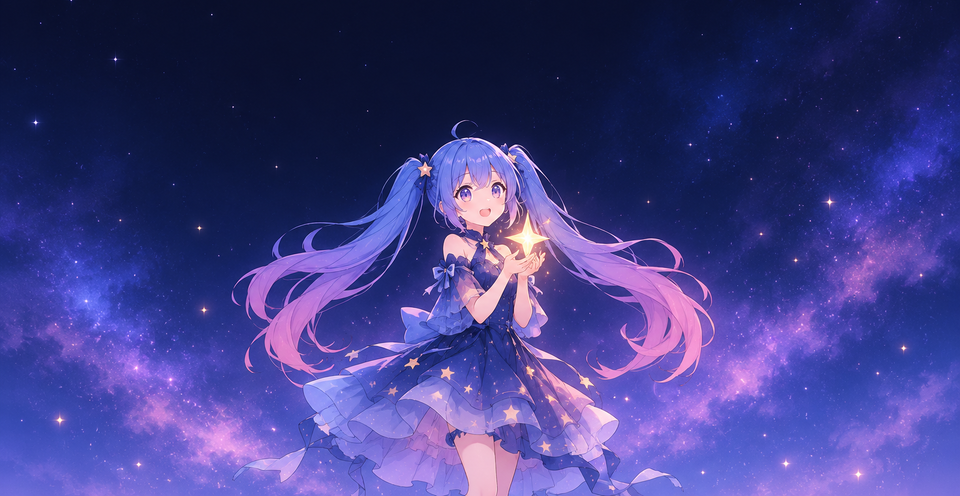
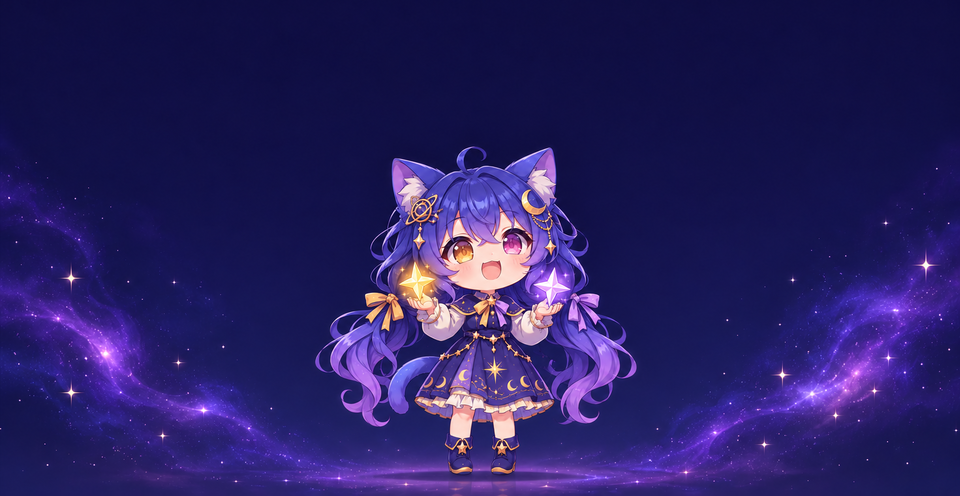
Characters drawn anew, all chibi; theme drake; 0.7.2
clay, mint, twin, void, lyre and prism get new chibi pictures, each from the
traits the community gives that model's character (lyre and prism no longer
look like the whale girl). drake is ChatGPT's dragon girl. 17 built-in
themes, 14 pictures; the eight with a character show it behind the text.
0.7.1 was tagged but never released.

diff --git a/site/index.html b/site/index.html
@@ -89,7 +89,7 @@
         <div class="data">
           <figure class="photo">
             <img src="img/hero.png" width="960" height="430" alt="UnifyTerm on Windows, in PowerShell: cat Cargo.toml | grep -n version prints three numbered lines; echo '[1,2,3]' | jq add prints 6; ut view unifyterm.png shows the logo as a picture, in the terminal." data-i18n-attr="alt:hero.alt" />
-            <svg class="stamp stamp--seal" viewBox="0 0 220 220" role="img" aria-label="Stamp: UnifyTerm 0.7.1, valid on three systems" data-i18n-attr="aria-label:stamp.seal" style="--turn: -11deg">
+            <svg class="stamp stamp--seal" viewBox="0 0 220 220" role="img" aria-label="Stamp: UnifyTerm 0.7.2, valid on three systems" data-i18n-attr="aria-label:stamp.seal" style="--turn: -11deg">
               <defs>
                 <path id="seal-top" d="M 28 110 A 82 82 0 0 1 192 110" />
                 <path id="seal-bottom" d="M 22 110 A 88 88 0 0 0 198 110" />
@@ -100,7 +100,7 @@
                 <circle cx="110" cy="110" r="62" class="thin" />
                 <text class="arc"><textPath href="#seal-top" startOffset="50%">UNIFYTERM</textPath></text>
                 <text class="arc arc--small"><textPath href="#seal-bottom" startOffset="50%">VALID ON THREE SYSTEMS</textPath></text>
-                <text class="mid" x="110" y="106">0.7.1</text>
+                <text class="mid" x="110" y="106">0.7.2</text>
                 <text class="mid mid--small" x="110" y="130">MIT</text>
               </g>
             </svg>
@@ -378,7 +378,7 @@ ut setting set font.size 16</code></pre>
       <section class="page page--cyan" id="observations" aria-labelledby="h-observations">
         <div class="guilloche" aria-hidden="true"></div>
         <h2 id="h-observations" data-i18n="obs.h">Current limitations</h2>
-        <p class="obs__lede" data-i18n="obs.lede">UnifyTerm is currently at version 0.7.1, and some areas are still incomplete:</p>
+        <p class="obs__lede" data-i18n="obs.lede">UnifyTerm is currently at version 0.7.2, and some areas are still incomplete:</p>
         <ul class="obs">
           <li data-i18n="obs.1">The Windows and macOS builds are not code-signed yet. A SmartScreen or Gatekeeper security prompt may appear on first launch.</li>
           <li data-i18n="obs.2">The macOS build passes CI builds and tests, but has seen little hands-on use so far.</li>

diff --git a/site/site.js b/site/site.js
@@ -37,7 +37,7 @@
     "nav.install": "安装",
     "theme.label": "切换浅色和深色",
     "hero.alt": "Windows 上的 UnifyTerm，PowerShell 里：cat Cargo.toml | grep -n version 输出带行号的三行；echo '[1,2,3]' | jq add 输出 6；ut view unifyterm.png 把 logo 作为图片显示在终端里。",
-    "stamp.seal": "印章：UnifyTerm 0.7.1，三个系统通用",
+    "stamp.seal": "印章：UnifyTerm 0.7.2，三个系统通用",
     "hero.h1": "一个终端，运行在 Windows、macOS 和 Linux 上。",
     "hero.sub": "在不同操作系统上，使用相同的命令和操作习惯。",
     "hero.lede": "UnifyTerm 是一个跨平台终端应用。它保留系统原生 Shell，同时提供一套统一的 Unix 命令工具，包括 <code>cat</code>、<code>grep</code>、<code>sed</code>、<code>jq</code> 等。",
@@ -124,7 +124,7 @@
     "film.p": "这里展示 UnifyTerm 在真实环境中的运行过程，包括命令执行、历史搜索、内容查看和 Agent 集成。",
     "film.link": "观看演示视频",
     "obs.h": "当前限制",
-    "obs.lede": "UnifyTerm 目前处于 0.7.1 版本，仍有一些尚未完善的地方：",
+    "obs.lede": "UnifyTerm 目前处于 0.7.2 版本，仍有一些尚未完善的地方：",
     "obs.1": "Windows 和 macOS 版本尚未进行代码签名，首次运行可能出现 SmartScreen 或 Gatekeeper 安全提示。",
     "obs.2": "macOS 版本已通过 CI 构建和测试，但人工使用还很少。",
     "obs.3": "视频播放依赖 FFmpeg，目前不支持音频。",

diff --git a/crates/config/src/themes.rs b/crates/config/src/themes.rs
@@ -31,7 +31,7 @@ macro_rules! built_in {
 }
 
 /// The themes UnifyTerm brings, in the order they are listed: each one's name and its file.
-pub const BUILT_IN: [(&str, &str); 16] = [
+pub const BUILT_IN: [(&str, &str); 17] = [
     built_in!("tokyo-night"),
     built_in!("aurora"),
     built_in!("eclipse"),
@@ -48,6 +48,7 @@ pub const BUILT_IN: [(&str, &str); 16] = [
     built_in!("void"),
     built_in!("lyre"),
     built_in!("prism"),
+    built_in!("drake"),
 ];
 
 /// Where a theme is.
@@ -211,7 +212,7 @@ pub fn passed_over(text: &str) -> Vec<String> {
 
 /// The files of UnifyTerm's own pictures: one for each built-in theme that
 /// has one, by the theme's name. The window has the pictures themselves.
-pub const PICTURES: [&str; 13] = [
+pub const PICTURES: [&str; 14] = [
     "aurora.png",
     "eclipse.png",
     "phosphor.png",
@@ -225,6 +226,7 @@ pub const PICTURES: [&str; 13] = [
     "void.png",
     "lyre.png",
     "prism.png",
+    "drake.png",
 ];
 
 /// Where a picture is.
@@ -580,7 +582,7 @@ mod tests {
             assert_eq!(find(name, None).expect("built in").picture, None, "{name}");
         }
         // A theme with a character shows it behind the text too; the preview page's six do not.
-        for name in ["whale", "clay", "mint", "twin", "void", "lyre", "prism"] {
+        for name in ["whale", "clay", "mint", "twin", "void", "lyre", "prism", "drake"] {
             let theme = find(name, None).expect("built in");
             assert_eq!(theme.wallpaper.as_deref(), Some(format!("{name}.png").as_str()), "{name}");
             assert_eq!(theme.wallpaper_opacity, Some(0.3), "{name}");
@@ -622,6 +624,7 @@ mod tests {
             ("void", true),
             ("lyre", true),
             ("prism", true),
+            ("drake", true),
             ("mine", false),
         ];
         assert_eq!(names, wanted.map(|(name, built_in)| (name.to_owned(), built_in)));
@@ -635,7 +638,7 @@ mod tests {
         let said = |name: &str| format!("{:#}", find(name, Some(folder.path())).expect_err("refused"));
         assert_eq!(
             said("nosuch"),
-            "no theme is called nosuch: there is tokyo-night, aurora, eclipse, phosphor, riso, night, day, paper-dark, paper, whale, clay, mint, twin, void, lyre, prism"
+            "no theme is called nosuch: there is tokyo-night, aurora, eclipse, phosphor, riso, night, day, paper-dark, paper, whale, clay, mint, twin, void, lyre, prism, drake"
         );
         assert!(said("../day").contains("is not a theme's name"), "a name never leaves the folder");
         std::fs::write(file_of("broken", folder.path()), "[theme]\nforeground = 1").expect("write");

diff --git a/crates/unifyterm/src/art.rs b/crates/unifyterm/src/art.rs
@@ -1,9 +1,9 @@
 //! The picture at the foot of the sidebar: the one the look in use names.
 //!
-//! A theme (or the settings) names a picture's file. UnifyTerm brings 13
+//! A theme (or the settings) names a picture's file. UnifyTerm brings 14
 //! pictures of its own: one for each of its themes with a preview page
 //! (`demo/appearance.html`), and one for each theme with a character
-//! (`whale`, `clay`, `mint`, `twin`, `void`, `lyre`, `prism`); they are in
+//! (`whale`, `clay`, `mint`, `twin`, `void`, `lyre`, `prism`, `drake`); they are in
 //! the program, and a theme names one the same way it names a file of the
 //! user's own.
 //!
@@ -34,7 +34,7 @@ macro_rules! own {
 }
 
 /// UnifyTerm's own pictures by their files' names: the ones `unifyterm-config` lists.
-const OWN: [(&str, &[u8]); 13] = [
+const OWN: [(&str, &[u8]); 14] = [
     own!("aurora.png"),
     own!("eclipse.png"),
     own!("phosphor.png"),
@@ -48,6 +48,7 @@ const OWN: [(&str, &[u8]); 13] = [
     own!("void.png"),
     own!("lyre.png"),
     own!("prism.png"),
+    own!("drake.png"),
 ];
 
 /// A picture's file is not read past this: a picture for a strip 268 pixels wide is far below it.

diff --git a/docs/verification-log.md b/docs/verification-log.md
@@ -1,17 +1,20 @@
 # 验收记录
 
-## 2026-11-26 · 0.7.1：七套带角色的主题（whale 哦鲸鲸 等）
+## 2026-11-26 · 0.7.2：八套带角色的主题（whale 哦鲸鲸 等）
 
-用户："可不可以增加一套鲸鱼娘的主题"；名字"主题名可以用 whale"，"显示用中文名"，"就叫哦鲸鲸吧"；"终端背景和侧边栏背景的这个例子，在 readme 里也展示一下"；"把 claude、gpt、gemini、grok、muse、glm 的二次元娘形象也分别做一套主题配置"；看过预览页后"这些主题都可以，默认带显示背景图吧"。
+用户："可不可以增加一套鲸鱼娘的主题"；名字"主题名可以用 whale"，"显示用中文名"，"就叫哦鲸鲸吧"；"终端背景和侧边栏背景的这个例子，在 readme 里也展示一下"；"把 claude、gpt、gemini、grok、muse、glm 的二次元娘形象也分别做一套主题配置"；"默认带显示背景图吧"；"muse 和 glm 的主题图根本不是网上的二次元娘形象，都同化成鲸鱼了"，"还有 chatgpt 龙娘的也没有"；"现在的那个薄荷也挺好看，可以留着"；"能不能都用 q 版的"；"可以让他直接从网上找"。
+
+0.7.1 没有发布：标签 `v0.7.1` 打在带旧图的提交上，发版跑到一半时用户指出图不对，发版取消，没有 Release；用户定"直接跳过这个 tag，0.7.2 就行了"。
 
 做了什么：
 
-- 7 个主题文件，各带一个原创角色的图：`whale`（哦鲸鲸，深海蓝）、`clay`（陶陶，浅色，陶土橙）、`mint`（薄荷，黑底青绿）、`twin`（双子，蓝紫粉）、`void`（虚空，黑白）、`lyre`（缪缪，深蓝和金）、`prism`（谱谱，靛蓝到青）。配色借原型的品牌色，名字和图都不用品牌名和标志。
-- 图：whale、clay、mint、twin、void 由 ChatGPT 网页版画（额度用完后停）；lyre、prism 由群聊里的 blog 画。原图 1536×1024，裁成 960×496（缩到宽 960 后靠下裁），人物居中靠下：侧栏图片区按铺满居中裁剪，上半部分被侧栏颜色盖住。不用别人画的同人图。
-- 这 7 套默认显示背景图：`wallpaper = "<名字>.png"`、`wallpaper_opacity = 0.3`；设置里 `wallpaper = ""` 关掉。不设 `shine`：内置主题不替用户打开光效（已有测试守着这条）。
-- 对比度（WCAG）：正文 13.2–16.8，次要文字 5.5–8.8；12 个彩色里最低的，深色 5.4–7.5，浅色 clay 3.3（亮色组）。
-- 代码只加列表项：`BUILT_IN` 9 → 16，`PICTURES` 6 → 13，窗口自带的图 6 → 13；测试里的主题名单加 7 个；新测试：7 套带角色的主题有背景图且透明度 0.3，预览页的 6 套没有。
-- README：主题 16 套；例子和截图 `docs/media/theme-whale.png`（真实窗口，演示盘 `U:\`，不含本机路径）。
+- 8 个主题文件，各带一个角色的图：`whale`（哦鲸鲸，DeepSeek 鲸鱼娘，深海蓝）、`clay`（陶陶，Claude 橙发大小姐，浅色）、`mint`（薄荷，黑发挑染青绿）、`twin`（双子，Gemini 蓝紫猫耳）、`void`（虚空，Grok 金色双马尾，黑白）、`lyre`（缪缪，Muse，抱竖琴）、`prism`（谱谱，GLM 黑长发狐耳）、`drake`（龙龙，ChatGPT 白卷发龙娘，翡翠绿）。配色借原型的品牌色；名字和图都不用品牌名和标志。
+- 图：whale 由 ChatGPT 网页版画；其余 7 张由群聊里的 blog 画，全部 Q 版。形象按网上公认的特征（萌娘百科、媒体报道）用文字描述，只取特征，画新图，不用、不描别人的图。原图 1536×1024，裁成 960×496（缩到宽 960 后靠下裁）。
+- 第一版的问题和定性：共性问题。最初的画图描述没有参考网上的形象，凡是有公认形象的（ChatGPT、Claude、Grok）都对不上；给 blog 的参考图是 whale.png，它连长相也照搬，lyre、prism 成了换道具的鲸鱼娘。修法：查公认特征写进描述，不再给 whale 当参考，一起重画。
+- 这 8 套默认显示背景图：`wallpaper = "<名字>.png"`、`wallpaper_opacity = 0.3`；设置里 `wallpaper = ""` 关掉。不设 `shine`：内置主题不替用户打开光效（已有测试守着这条）。
+- 对比度（WCAG）：正文 13.2–16.8，次要文字 5.5–9.2；12 个彩色里最低的，深色 5.4–7.5，浅色 clay 3.3（亮色组）。
+- 代码只加列表项：`BUILT_IN` 9 → 17，`PICTURES` 6 → 14，窗口自带的图 6 → 14；测试里的主题名单加 8 个；新测试：8 套带角色的主题有背景图且透明度 0.3，预览页的 6 套没有。
+- README：主题 17 套；例子和截图 `docs/media/theme-whale.png`（真实窗口，演示盘 `U:\`，不含本机路径）。
 
 验收（用户 2026-11-26 定：这次只加主题和列表项，效果一致即可，不再跑多轮；全量交给 CI）：
 
@@ -19,14 +22,15 @@
 |---|---|---|---|
 | 1 | 静态一致性 | 读 diff；查所有列出主题名的地方 | 5 处列表都有 `whale`；`ut` 里另 3 个文件的名单都从 `BUILT_IN` 推出，不用改。docs-check 4/4；`unifyterm-config` 43/43、`ut` 117/117、`art` 2/2；clippy、fmt 干净 |
 | 2 | 机制通路 | release 版真实窗口取色；`ut prompt` 看转义 | 文字区 `#0b1530`、侧栏 `#0f1b3a`，与主题文件一致；侧栏图片区不是侧栏色的像素：有图 5760、`picture = ""` 时 0；背景图：文字区 3826 种颜色（关掉时 1 种）；`ut prompt` 第一段底色 `48;2;77;107;254`，有圆分隔符 |
-| 3 | 机制通路（新 6 套） | 每套开两次真实窗口：主题自带背景图，和设置里 `wallpaper = ""` | 6/6 通过：侧栏色、文字区底色都和主题文件一致；侧栏图片区 5760 个像素不是侧栏色；文字区颜色数：带背景图 988–6827，关掉 1。16 套的配置测试 43/43，`ut` 117/117，`art` 2/2，clippy、fmt 干净 |
+| 3 | 机制通路（新 6 套） | 每套开两次真实窗口：主题自带背景图，和设置里 `wallpaper = ""` | 6/6 通过：侧栏色、文字区底色都和主题文件一致；侧栏图片区 5760 个像素不是侧栏色；文字区颜色数：带背景图 988–6827，关掉 1 |
+| 4 | 换图后 | 17 套的单元测试；release 版 8 套各拍一张真实窗口（演示盘） | 配置 43/43，`ut` 117/117，`art` 2/2，clippy、fmt、docs-check、许可证清单干净；8 张截图各是对应主题：背景图、侧栏角色、`ut theme` 列出 17 套、`*` 标在该主题上 |
 
 第 2 轮两项失败，都是检查脚本的错，代码没改：
 
 - 侧栏取色点 (1100,300) 落在 codex 卡片的文字上（读到 `#54648b`）。换空白处 (1100,450)，读到 `#0f1b3a`。
 - 背景图"没画出来"：脚本把第一张截图存成了设置文件旁的 `whale.png`。按规则旁边的同名文件优先于自带的图，那张截图的文字区是纯底色，叠上去看不出。同一个 exe 在干净目录里重拍，背景图正常（3826 种颜色）；`aurora.png` 在原目录也正常（1580 种）。
 
-遗留：macOS、Linux 上没有看过这些主题的画面。`void` 的人物站得高，侧栏图片区里脸在被侧栏颜色盖住的那一段，露出的是腿和石头（用户看过预览，没要求改）。
+遗留：macOS、Linux 上没有看过这些主题的画面。`clay`、`lyre` 的人物在图里偏小，侧栏图片区里更小（用户看过预览，没要求改）。`prism` 的名字是按三棱镜起的，定稿的图是狐耳捧书，没有三棱镜。
 
 ## 2026-11-26 · 0.7.0：主题配置的提示符（M12）
 

diff --git a/README.md b/README.md
@@ -185,11 +185,11 @@ UnifyTerm reads the file again whenever it changes, by `ut setting` or by an edi
 
 **Keys.** A key in `[keys]` may be written as you would say it (`Ctrl+Shift+G`): `ut setting` keeps it as `ctrl-shift-g`. The keys held are `ctrl`, `alt`, `shift` and `cmd` (the Windows key on a PC). A letter, a digit or a sign needs Ctrl, Alt or Cmd with it, and so do Enter, Tab, Esc and the arrows: alone, or with Shift only, they are what the shell is typed to with, and are refused. A function key and Insert may stand alone. A key cannot be given to two commands. A key another program has taken for the whole system (a screenshot key) never reaches UnifyTerm: give the command another one, as `ut setting set keys.agents ctrl-alt-a`.
 
-**Themes.** A theme is a set of colors under a name. UnifyTerm has 16: `tokyo-night` (in use until you choose another), `aurora`, `eclipse`, `phosphor`, `night`, `paper-dark`, `whale` (哦鲸鲸), `mint` (薄荷), `twin` (双子), `void` (虚空), `lyre` (缪缪) and `prism` (谱谱), which are dark, and `riso`, `day`, `paper` and `clay` (陶陶), which are light. `paper-dark` and `paper` are keepane's own two looks, with its colors. The seven with a Chinese name each have a character of their own in their picture. `ut theme` lists them with a sample of each one's colors; `ut theme NAME` uses one. Every open window changes at once, and the next time UnifyTerm opens it has that theme: the name is the setting `theme.name`. `demo/appearance.html` shows six of them in a browser, and the window's colors are the ones on that page.
+**Themes.** A theme is a set of colors under a name. UnifyTerm has 17: `tokyo-night` (in use until you choose another), `aurora`, `eclipse`, `phosphor`, `night`, `paper-dark`, `whale` (哦鲸鲸), `mint` (薄荷), `twin` (双子), `void` (虚空), `lyre` (缪缪), `prism` (谱谱) and `drake` (龙龙), which are dark, and `riso`, `day`, `paper` and `clay` (陶陶), which are light. `paper-dark` and `paper` are keepane's own two looks, with its colors. The eight with a Chinese name each have a character of their own in their picture. `ut theme` lists them with a sample of each one's colors; `ut theme NAME` uses one. Every open window changes at once, and the next time UnifyTerm opens it has that theme: the name is the setting `theme.name`. `demo/appearance.html` shows six of them in a browser, and the window's colors are the ones on that page.
 
-A theme of your own is a file `NAME.toml` in the `themes` folder beside the settings file (`ut theme directory` prints it), with a table `[theme]` and the keys of the table above, all but `name`. It must give `foreground`, `background` and `ansi`. It may give `cursor`, `selection` and the colors around the text (`bar`, `panel`, `well`, `rule`, `edge`, `muted`, `symbol`): one it leaves out is worked out from the foreground and the background (the cursor is the text's color). It may also give what is not a color: `opacity`, `blur`, `rounding`, `corners`, and two pictures, each a file beside the theme's own (PNG, JPEG, WebP, GIF, BMP, SVG or TIFF, at most 16 MB): `picture`, shown at the foot of the sidebar, and `wallpaper`, drawn behind the text over the whole window. The text is drawn over the wallpaper as it is: `wallpaper_opacity` (0.25 until you say) keeps the picture faint enough to read on. A table `[prompt]` beside `[theme]` says how the prompt looks in this theme, with the keys of the settings' `[prompt]` but `enabled` (see [The prompt](#the-prompt)). UnifyTerm's own 13 pictures are found by their names from any folder, so a copy of a built-in theme keeps its picture. A key this version does not know is passed over, and `ut theme check` names it: a theme written for a later UnifyTerm still works in this one. `ut theme new NAME` begins one as a copy of the theme in use, and `ut theme show NAME` prints any theme's file. A window that uses your theme follows its file as you save it. A name is small letters, digits and `-`; your file with a built-in theme's name is used in that theme's place.
+A theme of your own is a file `NAME.toml` in the `themes` folder beside the settings file (`ut theme directory` prints it), with a table `[theme]` and the keys of the table above, all but `name`. It must give `foreground`, `background` and `ansi`. It may give `cursor`, `selection` and the colors around the text (`bar`, `panel`, `well`, `rule`, `edge`, `muted`, `symbol`): one it leaves out is worked out from the foreground and the background (the cursor is the text's color). It may also give what is not a color: `opacity`, `blur`, `rounding`, `corners`, and two pictures, each a file beside the theme's own (PNG, JPEG, WebP, GIF, BMP, SVG or TIFF, at most 16 MB): `picture`, shown at the foot of the sidebar, and `wallpaper`, drawn behind the text over the whole window. The text is drawn over the wallpaper as it is: `wallpaper_opacity` (0.25 until you say) keeps the picture faint enough to read on. A table `[prompt]` beside `[theme]` says how the prompt looks in this theme, with the keys of the settings' `[prompt]` but `enabled` (see [The prompt](#the-prompt)). UnifyTerm's own 14 pictures are found by their names from any folder, so a copy of a built-in theme keeps its picture. A key this version does not know is passed over, and `ut theme check` names it: a theme written for a later UnifyTerm still works in this one. `ut theme new NAME` begins one as a copy of the theme in use, and `ut theme show NAME` prints any theme's file. A window that uses your theme follows its file as you save it. A name is small letters, digits and `-`; your file with a built-in theme's name is used in that theme's place.
 
-The seven themes with a character show its picture behind the text and at the foot of the agents' sidebar (Ctrl-Shift-A). Below is `whale` with UnifyTerm's prompt on; the settings file has these lines (`wallpaper = ""` under `[theme]` would take the picture away from behind the text):
+The eight themes with a character show its picture behind the text and at the foot of the agents' sidebar (Ctrl-Shift-A). Below is `whale` with UnifyTerm's prompt on; the settings file has these lines (`wallpaper = ""` under `[theme]` would take the picture away from behind the text):
 
 ```toml
 [theme]
